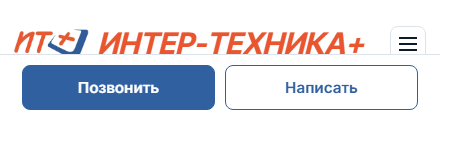
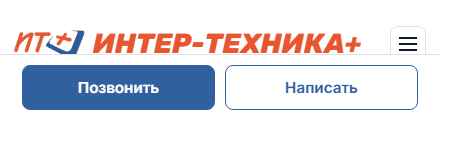
Название компании - Rubik 800, урезан до букв (4,8 КБ): округлые штрихи как у знака

Changed region(s): [[0.0304, 0.1562, 0.7913, 0.3438]]

diff --git a/assets/style.css b/assets/style.css
@@ -1,3 +1,22 @@
+/* Название компании — Rubik: закруглённые концы штрихов, как у знака «ИТ+».
+   Шрифт урезан до букв названия: 4,8 КБ вместо 52 КБ полного набора. */
+
+@font-face {
+  font-family: "Rubik Wordmark";
+  font-style: italic;
+  font-weight: 400 900;
+  font-display: swap;
+  src: url("fonts/rubik-wm-cyrillic.woff2") format("woff2");
+  unicode-range: U+0400-045F, U+0490-0491, U+04B0-04B1;
+}
+@font-face {
+  font-family: "Rubik Wordmark";
+  font-style: italic;
+  font-weight: 400 900;
+  font-display: swap;
+  src: url("fonts/rubik-wm-latin.woff2") format("woff2");
+  unicode-range: U+0020-007E;
+}
 /* ---------- Шрифты ----------
    Inter Tight — заголовки, Inter — текст. Одна суперсемья: заголовки
    плотнее по ширине, текст просторнее. Оба с кириллицей, лицензия OFL.
@@ -66,7 +85,7 @@
   --gutter: clamp(20px, 5vw, 48px);
   --radius: 8px;
   --shadow: 0 18px 40px -24px rgba(13, 27, 42, .35);
-  --brand-size: clamp(20px, calc(7.4vw - 3px), 44px);   /* знак и надпись одного размера, всегда влезают */
+  --brand-size: clamp(20px, calc(7vw - 3px), 44px);   /* знак и надпись одного размера, всегда влезают */
 }
 
 *,
@@ -201,12 +220,12 @@ p:last-child { margin-bottom: 0; }
 }
 
 .brand-name {
-  font-family: var(--font-display);
+  font-family: "Rubik Wordmark", var(--font-display);
   font-size: var(--brand-size);
-  font-weight: 700;
+  font-weight: 800;
   font-style: italic;
   text-transform: uppercase;
-  letter-spacing: .005em;
+  letter-spacing: -.01em;
   line-height: 1;
   white-space: nowrap;
   color: var(--red);

diff --git a/index.html b/index.html
@@ -24,9 +24,10 @@
 
   <link rel="icon" href="assets/icon.png" type="image/png">
   <link rel="apple-touch-icon" href="assets/icon.png">
+  <link rel="preload" href="assets/fonts/rubik-wm-cyrillic.woff2" as="font" type="font/woff2" crossorigin>
   <link rel="preload" href="assets/fonts/inter-cyrillic.woff2" as="font" type="font/woff2" crossorigin>
   <link rel="preload" href="assets/fonts/inter-tight-cyrillic.woff2" as="font" type="font/woff2" crossorigin>
-  <link rel="stylesheet" href="assets/style.css?v=20261149">
+  <link rel="stylesheet" href="assets/style.css?v=20261150">
 
   <script type="application/ld+json">
   {
